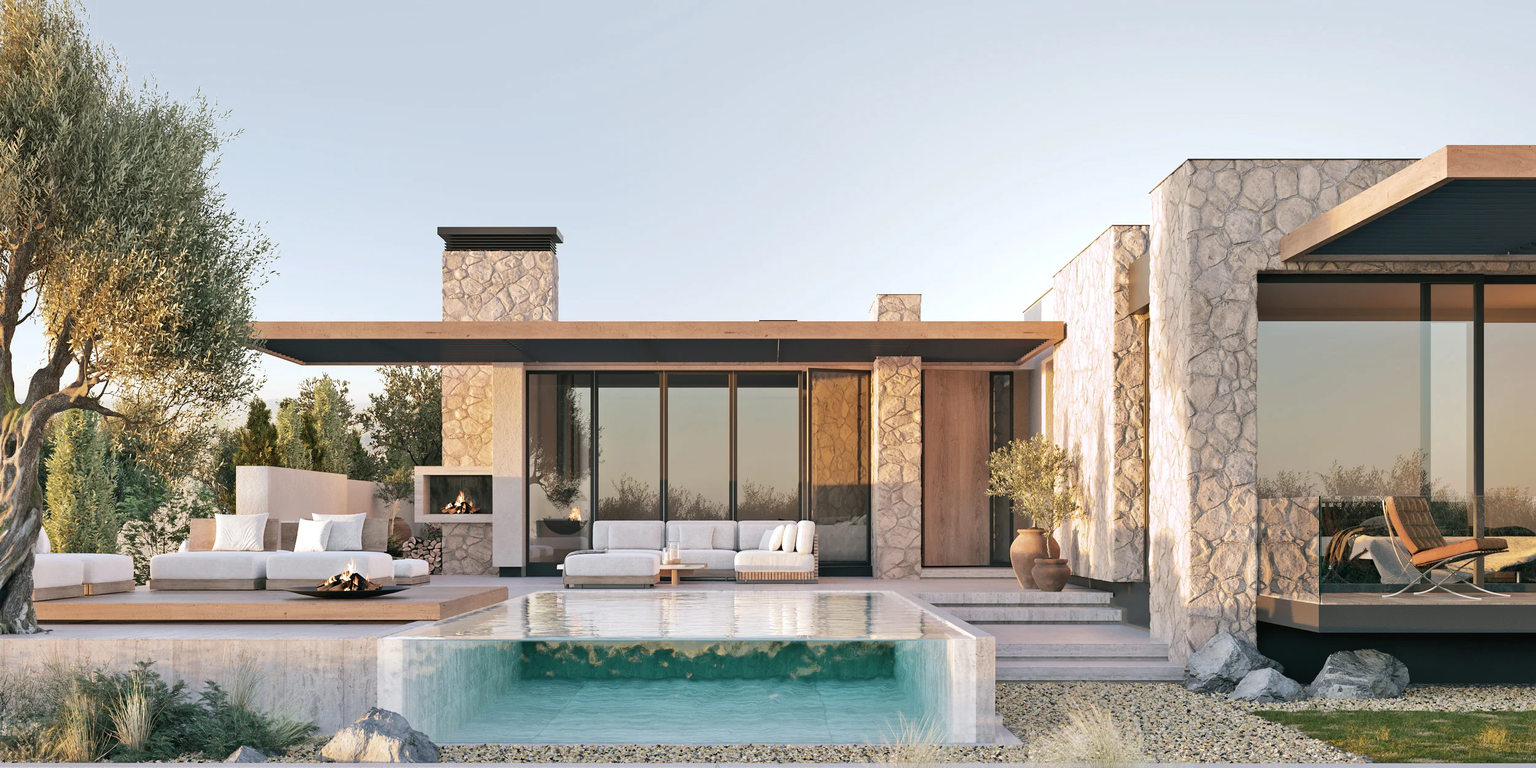
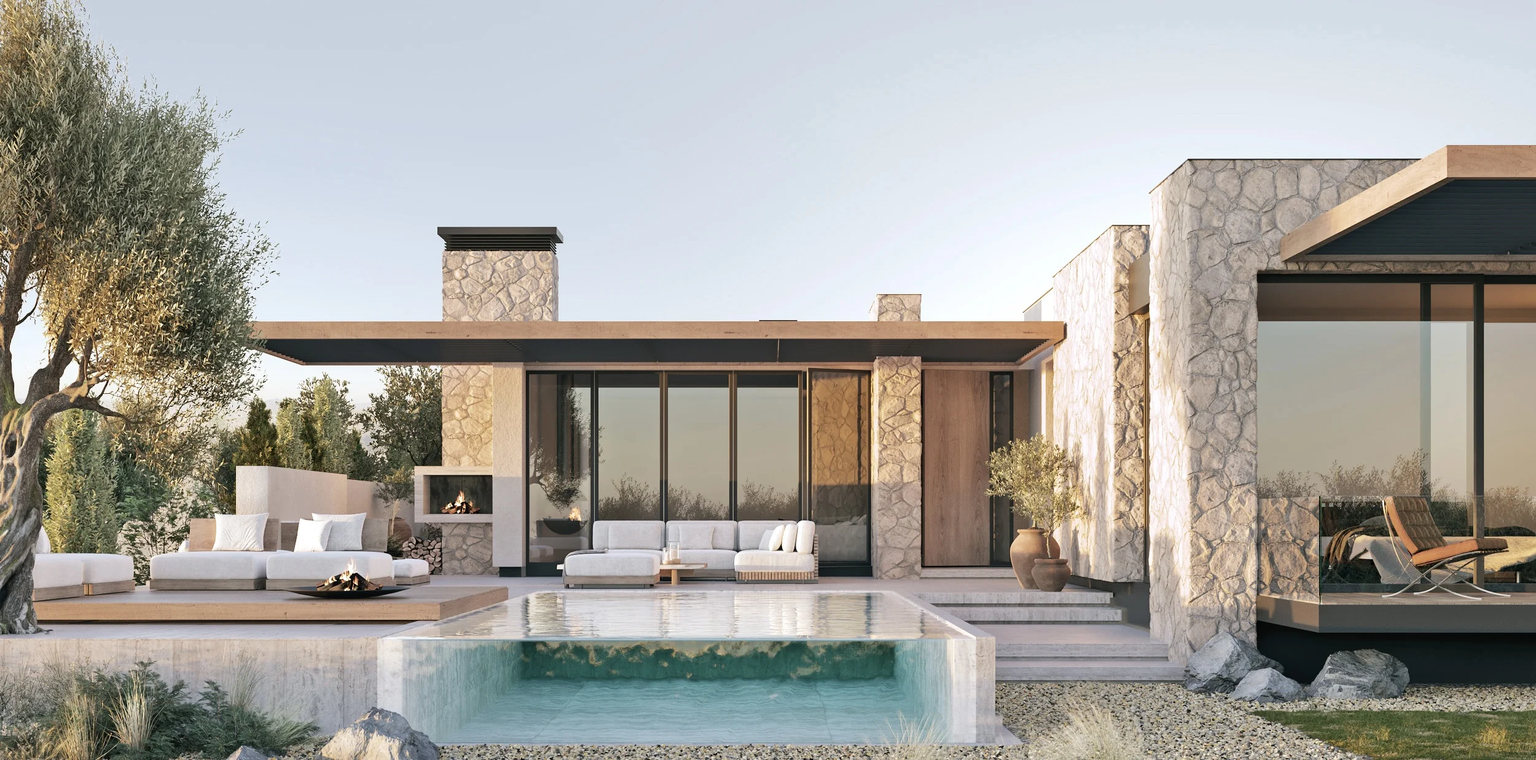
Add nodemailer integration for contact form; implement email sending functionality and update form submission handling

Changed region(s): [[0.0, 0.0307, 1.0, 1.0]]

diff --git a/src/utils/ContactForm/ContactForm.jsx b/src/utils/ContactForm/ContactForm.jsx
@@ -21,6 +21,7 @@ import Link from "next/link";
 import Image from "next/image";
 import { anim, ContactTitle } from "@/lib/helpers/anim";
 import { Content } from "../Content/Content";
+import { sendEmail } from "@/app/actions"; // Import the server action
 
 const ContactForm = () => {
   const [submitted, setSubmitted] = useState(false);
@@ -71,13 +72,35 @@ const ContactForm = () => {
     message: Yup.string(),
   });
 
-  const handleSubmit = (values, { setSubmitting, resetForm }) => {
-    console.log(values);
-    setSubmitting(false);
-    setSubmitted(true);
-    resetForm();
+  const handleSubmit = async (values, { setSubmitting, resetForm }) => {
+    try {
+      // Format data for the email service
+      const emailData = {
+        email: values.email,
+        phone: values.phone,
+        name: values.name,
+        message: values.message
+      };
+      
+      // Use the server action directly instead of fetch
+      const result = await sendEmail(emailData);
+      
+      if (result.success) {
+        console.log("Email sent successfully");
+        setSubmitted(true);
+        resetForm();
+      } else {
+        console.error("Failed to send email:", result.error);
+        // You might want to show an error message to the user here
+      }
+    } catch (error) {
+      console.error("Error sending email:", error);
+      // Handle error (you might want to show an error message to the user)
+    } finally {
+      setSubmitting(false);
+    }
   };
-
+  
   return (
     data && (
       <section
@@ -199,7 +222,7 @@ const ContactForm = () => {
                           key={index}
                           style={{ transitionDelay: `${index * 0.01}s` }}
                         >
-                          {word !== " " ? word : <>&nbsp;</>}
+                          {word !== " " ? word : <>&nbsp;</> }
                         </span>
                       ))}
                     </p>
@@ -292,7 +315,7 @@ const SocialsButton = ({ icon, href, text }) => {
             key={index}
             style={{ transitionDelay: `${index * 0.01}s` }}
           >
-            {word !== " " ? word : <>&nbsp;</>}
+            {word !== " " ? word : <>&nbsp;</> }
           </span>
         ))}
       </p>

diff --git a/src/app/actions.js b/src/app/actions.js
@@ -1,0 +1,34 @@
+"use server";
+
+import nodemailer from "nodemailer";
+
+const transporter = nodemailer.createTransport({
+  host: "smtp.gmail.com",
+  port: 587,
+  secure: false,
+  auth: {
+    user: process.env.EMAIL_SENDER,
+    pass: process.env.AUTH_PASS,
+  },
+});
+
+export async function sendEmail(data) {
+  try {
+    const emailText = `${data.email ? `Email: ${data.email}` : 'No email provided'}`;
+    const phoneText = `${data.phone ? `Phone: ${data.phone}` : 'No phone provided'}`;
+    const messageText = `${data.message ? `Message: \n${data.message}` : 'No message provided'}`;
+    const mailOptions = {
+      from: process.env.EMAIL_SENDER,
+      to: process.env.EMAIL_RECEIVER,
+      subject: data.name ? `New form message from ${data.name}` : `New form message`,
+      // text: `${`Contact form: ${data.emailOrPhone}`}\n\n${data.topic ? `Topic: ${data.topic}` : "No topic"}\n\n${data.message ? `Message: \n${data.message}` : "No message"}`,
+      text: `${emailText}\n\n${phoneText}\n\n${messageText}`,
+    };
+
+    await transporter.sendMail(mailOptions);
+    return { success: true };
+  } catch (error) {
+    console.error('Email sending error:', error);
+    return { success: false, error: error.message };
+  }
+}
